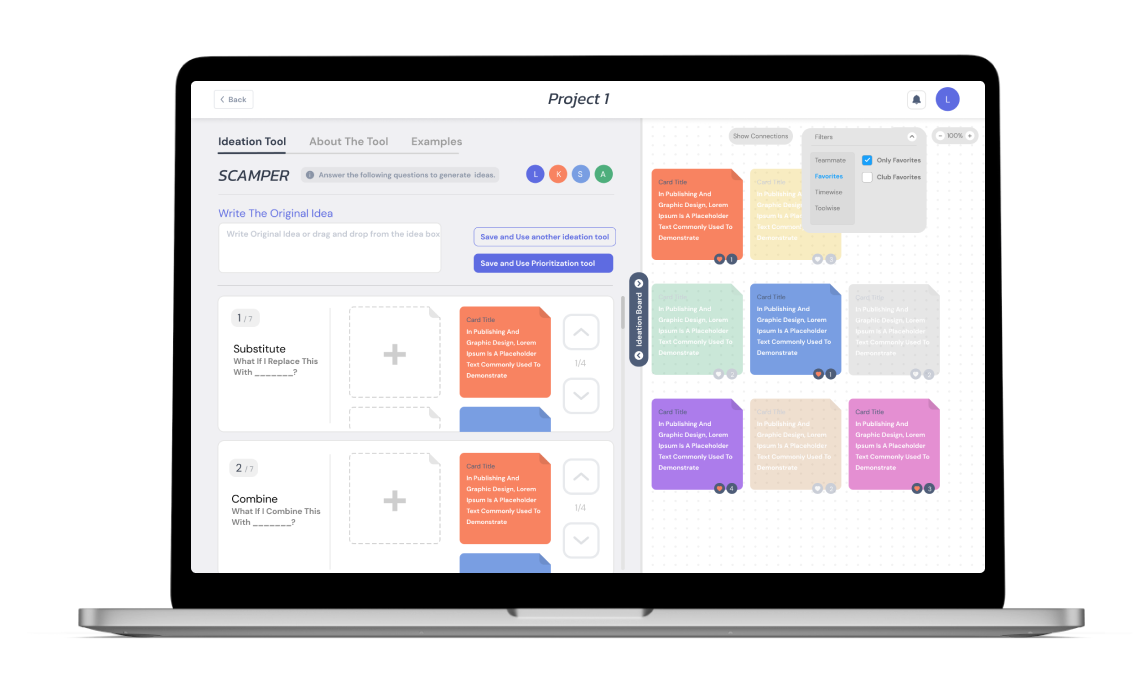
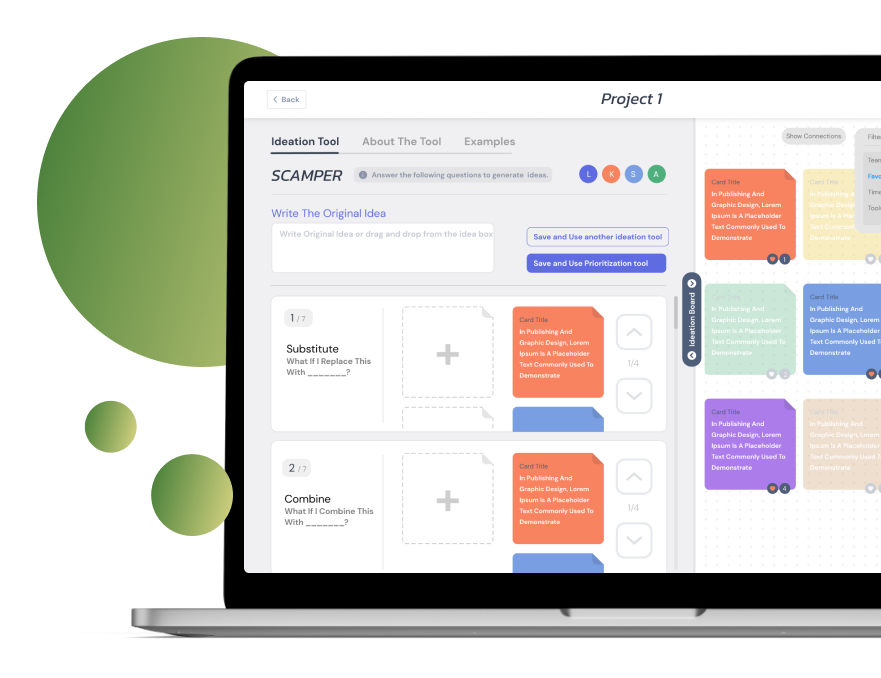
cover change

diff --git a/index.html b/index.html
@@ -139,12 +139,12 @@
                             <p class="card-description">
                                A tool which acts as scaffolding and fascilates ideation process from scratch to the end. Idyate helps users in generating ideas and prioritizing the Ideas as well.
                             </p>
-                            <br>
+                            <br><br><br><br>
                             <img src="./img/MaidForYou/IDC logo.png" alt="Card image" style="width: 60%">
                             <br><br>
                         </div>
                         <div class="pointerFix col-sm-6">
-                            <img src="./img/idearise/cover.png" alt="Card image" style="width: 100%">
+                            <img src="./img/idearise/cover.png" alt="Card image" style="width: 102.8%">
                             <!-- <a href="./subpages/portraits.html" class="ran stretched-link"></a> -->
                         </div>
                     </div>
@@ -170,12 +170,12 @@
                             <p class="card-description">
                                 Web application for managers to perform yearly planning and employee management
                             </p>
-                            <br>
+                            <br><br><br><br>
                             <img src="./img/DEShaw/DESCO_Logo-white.png" alt="Card image" style="width: 40%">
                             <br><br>
                         </div>
                         <div class="pointerFix col-sm-6">
-                            <img src="./img/DEShaw/deshawbanner.png" alt="Card image" style="width: 100%">
+                            <img src="./img/DEShaw/deshawbanner.png" alt="Card image" style="width: 102.8%">
                             <!-- <a href="./subpages/portraits.html" class="ran stretched-link"></a> -->
                         </div>
                     </div>
